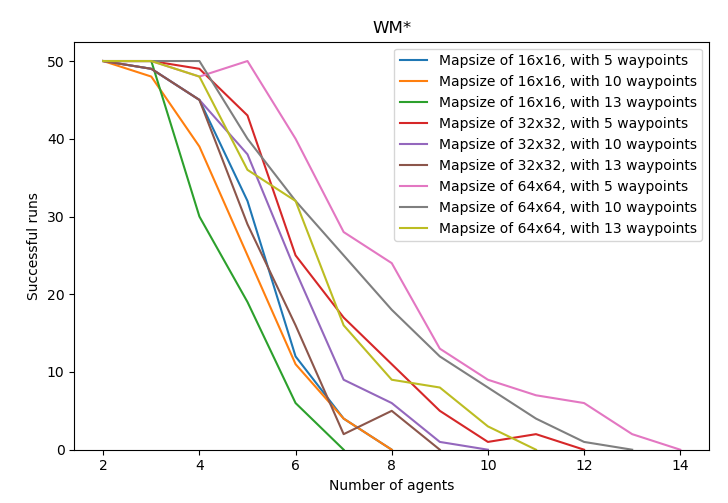
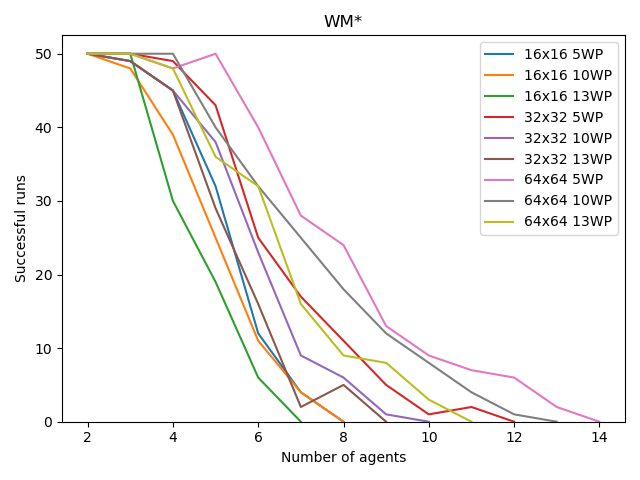
Final updates a week after the deadline

diff --git a/graphs/Graph_inflated.py b/graphs/Graph_inflated.py
@@ -82,18 +82,19 @@ with open('CSV/646413inflated.csv', 'r') as csvfile:
         x_646413.append(int(row[0]))
         y_646413.append(int(row[1]))
 
-plt.plot(x_16165, y_16165, label='Mapsize of 16x16, with 5 waypoints')
-plt.plot(x_161610, y_161610, label='Mapsize of 16x16, with 10 waypoints')
-plt.plot(x_161613, y_161613, label='Mapsize of 16x16, with 13 waypoints')
-plt.plot(x_32325, y_32325, label='Mapsize of 32x32, with 5 waypoints')
-plt.plot(x_323210, y_323210, label='Mapsize of 32x32, with 10 waypoints')
-plt.plot(x_323213, y_323213, label='Mapsize of 32x32, with 13 waypoints')
-plt.plot(x_64645, y_64645, label='Mapsize of 64x64, with 5 waypoints')
-plt.plot(x_646410, y_646410, label='Mapsize of 64x64, with 10 waypoints')
-plt.plot(x_646413, y_646413, label='Mapsize of 64x64, with 13 waypoints')
+plt.plot(x_16165, y_16165, label='16x16 5WP')
+plt.plot(x_161610, y_161610, label='16x16 10WP')
+plt.plot(x_161613, y_161613, label='16x16 13WP')
+plt.plot(x_32325, y_32325, label='32x32 5WP')
+plt.plot(x_323210, y_323210, label='32x32 10WP')
+plt.plot(x_323213, y_323213, label='32x32 13WP')
+plt.plot(x_64645, y_64645, label='64x64 5WP')
+plt.plot(x_646410, y_646410, label='64x64 10WP')
+plt.plot(x_646413, y_646413, label='64x64 13WP')
 plt.xlabel('Number of agents')
 plt.ylabel('Successful runs')
 plt.title('WM* inflated')
 plt.legend()
+plt.tight_layout()
 plt.ylim(bottom=0)
-plt.show()
+plt.savefig(fname="WMstarInflated")

diff --git a/graphs/Graph_normal.py b/graphs/Graph_normal.py
@@ -82,18 +82,19 @@ with open('CSV/646413normal.csv', 'r') as csvfile:
         x_646413.append(int(row[0]))
         y_646413.append(int(row[1]))
 
-plt.plot(x_16165, y_16165, label='Mapsize of 16x16, with 5 waypoints')
-plt.plot(x_161610, y_161610, label='Mapsize of 16x16, with 10 waypoints')
-plt.plot(x_161613, y_161613, label='Mapsize of 16x16, with 13 waypoints')
-plt.plot(x_32325, y_32325, label='Mapsize of 32x32, with 5 waypoints')
-plt.plot(x_323210, y_323210, label='Mapsize of 32x32, with 10 waypoints')
-plt.plot(x_323213, y_323213, label='Mapsize of 32x32, with 13 waypoints')
-plt.plot(x_64645, y_64645, label='Mapsize of 64x64, with 5 waypoints')
-plt.plot(x_646410, y_646410, label='Mapsize of 64x64, with 10 waypoints')
-plt.plot(x_646413, y_646413, label='Mapsize of 64x64, with 13 waypoints')
+plt.plot(x_16165, y_16165, label='16x16 5WP')
+plt.plot(x_161610, y_161610, label='16x16 10WP')
+plt.plot(x_161613, y_161613, label='16x16 13WP')
+plt.plot(x_32325, y_32325, label='32x32 5WP')
+plt.plot(x_323210, y_323210, label='32x32 10WP')
+plt.plot(x_323213, y_323213, label='32x32 13WP')
+plt.plot(x_64645, y_64645, label='64x64 5WP')
+plt.plot(x_646410, y_646410, label='64x64 10WP')
+plt.plot(x_646413, y_646413, label='64x64 13WP')
 plt.xlabel('Number of agents')
 plt.ylabel('Successful runs')
 plt.title('WM*')
 plt.legend()
+plt.tight_layout()
 plt.ylim(bottom=0)
-plt.show()
+plt.savefig(fname="WMstar")

diff --git a/graphs/costs.py b/graphs/costs.py
@@ -14,7 +14,7 @@ CBS_cost = [36, 48, 75, 26, 119, 27, 205, 821, 1733, 1590, 100, 115, 52, 34, 70,
 Astar_cost = [36, 48, 75, 26, 119, 27, 205, 821, np.nan, np.nan, 100, 115, 52, 34, 70, 70, 53, 51, np.nan, 43, 252, 114,
               138, np.nan, 114, 169, 333, 28, 39, np.nan, 65, np.nan, 14, 96, 94]
 MLA_cost = [36, 49, 87, np.nan, 135, 27, 347, 1149, 2264, 2624, 102, 121, 63, 36, 88, 98, 56, 56, 4410, np.nan, 533,
-            182, 286, 2023, 215, 173, 371, np.nan, np.nan, 1105, np.nan, 1570, np.nan, np.nan, np.nan]
+            182, 286, 2023, 215, 173, 371, np.nan, np.nan, 1105, np.nan, 1570, np.nan, 150, np.nan]
 BCP_cost = [36, 48, 75, 26, 119, 27, np.nan, np.nan, np.nan, 1590, 100, 115, 52, np.nan, 70, 70, 53, 51, np.nan, 43,
             252, 114, 138, 1994, 114, 169, 333, 28, 39, 824, 65, 1331, 14, 96, 94]
 
@@ -44,4 +44,5 @@ sns.set(font_scale=2)
 plt.figure(figsize=(2 * len(x_axis), 1.5 * len(y_axis)))
 ax = sns.heatmap(data, xticklabels=x_axis, yticklabels=y_axis, norm=LogNorm(), cmap="magma_r", annot=True,
                  linewidth=0.5)
-plt.show()
+plt.tight_layout()
+plt.savefig(fname="cost")

diff --git a/graphs/times.py b/graphs/times.py
@@ -14,7 +14,7 @@ CBS_times = [1, 34, 7, 118, 1770, 11, 33, 118000, 171000, 33490, 12, 299, 31, 1,
 Astar_times = [3, 58, 11, 42, 27610, 17, 103, 90000, np.nan, np.nan, 25, 3590, 2040, 3, 77, 54, 112000, 18, np.nan, 210,
                7030, 88, 857, np.nan, 4280, 92, 11990, 13760, 516, np.nan, 1980, np.nan, 7, 6660, 154]
 MLA_times = [1, 1, 6, np.nan, 53, 1, 35, 134, 228, 385, 7, 12, 2, 1, 13, 17, 8, 3, 861, np.nan, 20, 23, 45, 244, 14, 9,
-             27, np.nan, np.nan, 104, np.nan, 246, np.nan, np.nan, np.nan]
+             27, np.nan, np.nan, 104, np.nan, 246, np.nan, 6, np.nan]
 BCP_times = [11, 172, 13, 45, 341, 28, np.nan, np.nan, np.nan, 30940, 17, 49, 30, np.nan, 30, 27, 385, 24, np.nan, 15,
              38, 9, 922, 1460, 494, 14, 2320, 8710, 67, 2549000, 247, 653000, 12, 599, 6930]
 
@@ -43,4 +43,5 @@ sns.set(font_scale=2)
 plt.figure(figsize=(2 * len(x_axis), 1.5 * len(y_axis)))
 ax = sns.heatmap(data, xticklabels=x_axis, yticklabels=y_axis, norm=LogNorm(), cmap="magma_r", annot=True,
                  linewidth=0.5)
-plt.show()
+plt.tight_layout()
+plt.savefig(fname="times")

diff --git a/graphs/CPPvsPython.py b/graphs/CPPvsPython.py
@@ -22,5 +22,7 @@ plt.plot(res, '--bo', color="red")
 plt.plot(res_inflated, '--bo', color="green")
 plt.xticks(ticks, x_axis)
 plt.legend(["Normal", "Inflated"])
+plt.xlabel('Benchmark')
+plt.ylabel('The factor of the speed up of the C++ implementation')
 plt.yscale("log")
 plt.show()
